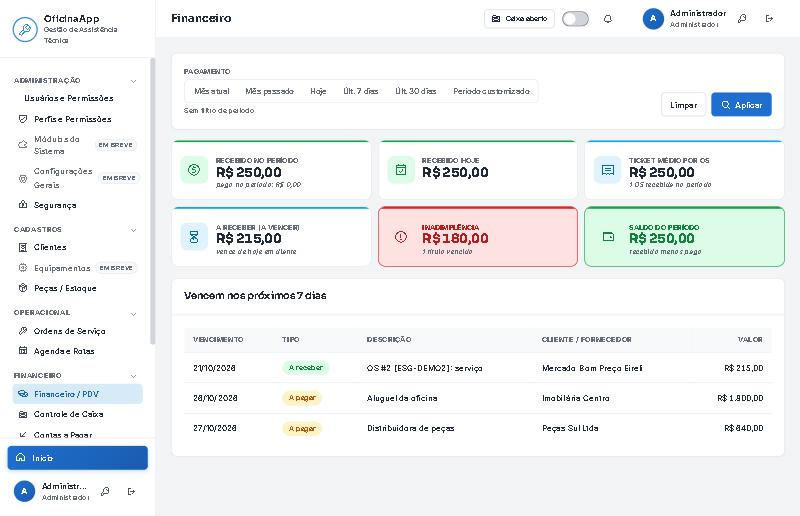
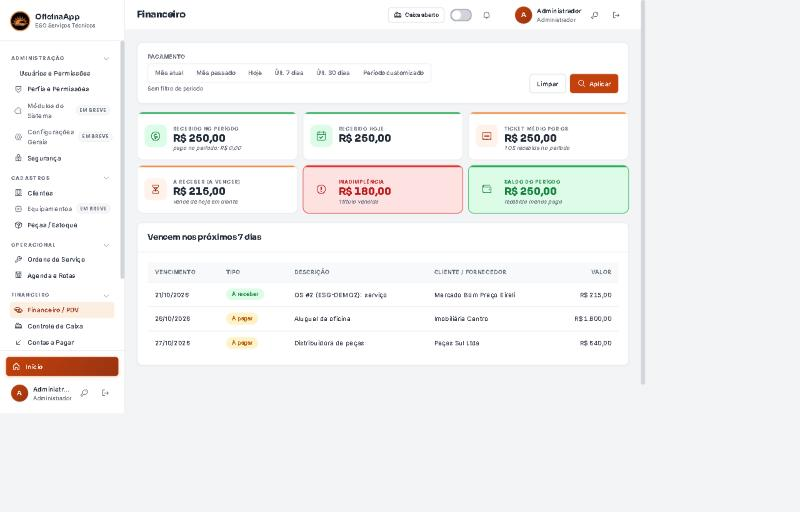
Rebrand visual para a identidade da ESG (laranja + preto)
- tokens.css: paleta accent azul -> laranja da ESG (#F28333), com
  variantes WCAG-seguras para botoes (#C2410C) e tema escuro
- icones PWA e favicon gerados a partir do logo real (letterbox em
  preto), substituindo o favicon.svg; gerar_icones.py reescrito
- login/trocar-senha exibem o logo completo; sidebar com logo + nome
- base/erro/offline/recibo/comprovante: favicon .svg -> .png
- pwa.py: cor do tema e versao do service worker
- chip de estoque normal: azul -> cinza neutro (sem azul na UI)
- capturas de tela refeitas na nova cor (docs/screenshots + site/img)
- landing page (site/index.html) rebrandizada para laranja + preto

diff --git a/static/css/tokens.css b/static/css/tokens.css
@@ -1,24 +1,24 @@
 /* tokens.css - Variáveis de cor, fonte, espaçamento, sombra, raio */
-/* Cor da marca: #3387E9 | Token: --accent */
+/* Cor da marca ESG (laranja do logo): #F28333 | Token: --accent */
 
 :root {
   /* Light theme (default) */
-  --accent: #3387E9;
-  --accent-suave: #D6EAF8;
-  --accent-escura: #1E6FD0;
-  --accent-hover: #2979D0;
-  --accent-soft: rgba(51, 135, 233, 0.1);
-  --accent-sombra: rgba(51, 135, 233, 0.3);
+  --accent: #F28333;
+  --accent-suave: #FDEEE2;
+  --accent-escura: #C2410C;
+  --accent-hover: #DD7324;
+  --accent-soft: rgba(242, 131, 51, 0.1);
+  --accent-sombra: rgba(242, 131, 51, 0.3);
   --accent-texto: #FFFFFF;
   /* Texto sobre superfícies --accent-suave/--accent-soft (nav ativa, badge,
-     ícone KPI): #1E6FD0 dava 4,01:1 na nav ativa — um passo mais escuro passa */
-  --accent-texto-escuro: #1A62C0;
+     ícone KPI): laranja escuro #9A3412 dá contraste forte na superfície clara */
+  --accent-texto-escuro: #9A3412;
 
-  /* Superfície sólida de botão/gradiente (4,5:1 com --accent-texto).
-     Branco sobre o azul da marca #3387E9 dá 3,6:1 — decisão de 14/10/2026:
-     botões no azul profundo, marca #3387E9 continua em ícones, bordas e nav */
-  --accent-solido: #1E6FD0;       /* 5,0:1 com branco */
-  --accent-solido-fim: #1A5CB0;   /* 2ª parada do gradiente e hover: 6,6:1 */
+  /* Superfície sólida de botão/gradiente (4,5:1+ com --accent-texto).
+     Branco sobre o laranja da marca #F28333 dá só 2,6:1, então o BOTÃO usa o
+     laranja profundo; a marca #F28333 segue em ícones, bordas e nav */
+  --accent-solido: #C2410C;       /* 5,2:1 com branco */
+  --accent-solido-fim: #9A3412;   /* 2ª parada do gradiente e hover: 7,3:1 */
 
   --verde: #16a34a;
   --verde-suave: #DCFCE7;
@@ -88,21 +88,21 @@
 
 [data-theme="dark"] {
   /* Dark theme */
-  --accent: #4A9EFF;
-  --accent-suave: #1A3A5C;
-  --accent-escura: #1E6FD0;
-  --accent-hover: #6BB3FF;
-  --accent-soft: rgba(74, 158, 255, 0.15);
-  --accent-sombra: rgba(74, 158, 255, 0.4);
-  --accent-texto: #0D1B2A;
+  --accent: #F9A05A;
+  --accent-suave: #3D2212;
+  --accent-escura: #C2410C;
+  --accent-hover: #FBBF88;
+  --accent-soft: rgba(249, 160, 90, 0.15);
+  --accent-sombra: rgba(249, 160, 90, 0.4);
+  --accent-texto: #3A1C09;
   --accent-texto-claro: #FFFFFF;
-  /* Texto sobre --accent-soft (badge, ícone KPI, nav ativa): precisa clarear
-     no dark — o valor claro (#1E6FD0) dava 2,4:1 sobre a superfície escura */
-  --accent-texto-escuro: #93C5FD;
+  /* Texto sobre --accent-soft (badge, ícone KPI, nav ativa): clareia no dark
+     (laranja claro #FBBF88) pra passar na superfície escura */
+  --accent-texto-escuro: #FBBF88;
 
   /* No escuro o accent clareia, então aqui o botão é claro com texto marinho */
-  --accent-solido: #4A9EFF;       /* 6,3:1 com #0D1B2A */
-  --accent-solido-fim: #6BB3FF;   /* 7,9:1 */
+  --accent-solido: #F9A05A;       /* 7,6:1 com #3A1C09 */
+  --accent-solido-fim: #FBBF88;   /* 9,0:1 */
 
   --verde: #22C55E;
   --verde-suave: #14532D;

diff --git a/site/index.html b/site/index.html
@@ -9,13 +9,13 @@
 <meta property="og:description" content="Do orçamento à entrega assinada pelo cliente, num sistema só.">
 <meta property="og:type" content="website">
 <meta property="og:image" content="img/inicio.jpg">
-<link rel="icon" type="image/svg+xml" href="favicon.svg">
+<link rel="icon" type="image/png" href="favicon.png">
 <link rel="preconnect" href="https://fonts.googleapis.com">
 <link rel="preconnect" href="https://fonts.gstatic.com" crossorigin>
 <link href="https://fonts.googleapis.com/css2?family=Inter:wght@400;500;600&family=Sora:wght@600;700;800&display=swap" rel="stylesheet">
 <style>
   :root{
-    --accent:#3387E9; --accent-esc:#1E6FD0; --tinta:#0f172a; --tinta2:#475569;
+    --accent:#F28333; --accent-esc:#C2410C; --tinta:#0f172a; --tinta2:#475569;
     --fraco:#94a3b8; --borda:#e2e8f0; --fundo:#f6f8fb; --branco:#fff;
     --verde:#16a34a; --card-sombra:0 1px 2px rgba(15,23,42,.06),0 8px 24px rgba(15,23,42,.06);
   }
@@ -40,8 +40,8 @@
 
   /* hero */
   .hero{padding:72px 0 48px;text-align:center;background:
-    radial-gradient(900px 380px at 50% -40%, rgba(51,135,233,.14), transparent 70%)}
-  .selo{display:inline-block;font-size:13px;font-weight:600;color:var(--accent-esc);background:rgba(51,135,233,.1);padding:6px 14px;border-radius:999px;margin-bottom:20px}
+    radial-gradient(900px 380px at 50% -40%, rgba(242,131,51,.16), transparent 70%)}
+  .selo{display:inline-block;font-size:13px;font-weight:600;color:var(--accent-esc);background:rgba(242,131,51,.12);padding:6px 14px;border-radius:999px;margin-bottom:20px}
   .hero h1{font-size:clamp(32px,5vw,52px);font-weight:800}
   .hero p{max-width:640px;margin:18px auto 0;font-size:clamp(16px,2.3vw,19px);color:var(--tinta2)}
   .hero-cta{display:flex;gap:12px;justify-content:center;flex-wrap:wrap;margin-top:28px}
@@ -58,7 +58,7 @@
   @media(max-width:860px){.grid{grid-template-columns:repeat(2,1fr)}}
   @media(max-width:560px){.grid{grid-template-columns:1fr}}
   .card{background:var(--branco);border:1px solid var(--borda);border-radius:14px;padding:22px;box-shadow:var(--card-sombra)}
-  .card .ic{width:44px;height:44px;border-radius:11px;background:rgba(51,135,233,.1);display:grid;place-items:center;font-size:22px;margin-bottom:14px}
+  .card .ic{width:44px;height:44px;border-radius:11px;background:rgba(242,131,51,.12);display:grid;place-items:center;font-size:22px;margin-bottom:14px}
   .card h3{font-size:18px;font-weight:600}
   .card p{color:var(--tinta2);font-size:15px;margin:8px 0 0}
 
@@ -105,7 +105,7 @@
 
 <header>
   <div class="wrap nav">
-    <div class="marca"><img src="favicon.svg" alt=""> OficinaApp</div>
+    <div class="marca"><img src="favicon.png" alt=""> OficinaApp</div>
     <div class="nav-links">
       <a class="btn btn-ghost" href="https://github.com/opusvix/oficinaapp" target="_blank" rel="noopener">GitHub</a>
       <a class="btn btn-ghost" href="https://gitlab.com/opusvix/oficinaapp" target="_blank" rel="noopener">GitLab</a>

diff --git a/static/css/components.css b/static/css/components.css
@@ -547,13 +547,13 @@ table.matriz tbody tr.matriz-grupo i { margin-right: 6px; }
 }
 .mg-kpi::before { content: ''; position: absolute; top: 0; left: 0; right: 0; height: 3px; background: var(--borda); }
 .mg-kpi.ac-fat::before { background: var(--verde); }
-.mg-kpi.ac-info::before { background: var(--azul-info); }
+.mg-kpi.ac-info::before { background: var(--accent); }
 .mg-kpi.ac-fin::before { background: var(--ambar); }
 .mg-kpi.pos::before { background: var(--verde); }
 .mg-kpi.neg::before { background: var(--vermelho); }
 .mg-kpi .ico { width: 44px; height: 44px; border-radius: 11px; display: grid; place-items: center; font-size: 22px; flex-shrink: 0; }
 .mg-kpi.ac-fat .ico, .mg-kpi.pos .ico { background: var(--verde-suave); color: var(--verde-escuro); }
-.mg-kpi.ac-info .ico { background: var(--azul-suave); color: var(--azul-escuro); }
+.mg-kpi.ac-info .ico { background: var(--accent-soft); color: var(--accent-texto-escuro); }
 .mg-kpi.ac-fin .ico { background: var(--ambar-suave); color: var(--ambar-escuro); }
 .mg-kpi.neg .ico { background: var(--vermelho-suave); color: var(--vermelho-escuro); }
 .mg-kpi .corpo { min-width: 0; flex: 1; display: flex; flex-direction: column; }
@@ -690,3 +690,7 @@ table.tabela tfoot td { padding: 12px 14px; font-weight: 700; border-top: 2px so
 .imp-atu { border-color: var(--azul-info); color: var(--azul-escuro); }
 .imp-erro { border-color: var(--vermelho); color: var(--vermelho-escuro); }
 .imp-tot { color: var(--texto-secundario); margin-left: auto; }
+
+/* Login: logo real da ESG num cartão preto (combina com o fundo do logo) */
+.auth-logo { background: #08080a; border-radius: 12px; padding: 16px 18px; margin-bottom: 22px; }
+.auth-logo img { display: block; width: 100%; max-width: 240px; height: auto; margin: 0 auto; }

diff --git a/templates/base.html b/templates/base.html
@@ -4,7 +4,7 @@
     <meta charset="utf-8">
     <meta name="viewport" content="width=device-width, initial-scale=1">
     <meta name="csrf-token" content="{{ csrf_token() }}">
-    <link rel="icon" type="image/svg+xml" href="{{ url_for('static', filename='favicon.svg') }}">
+    <link rel="icon" type="image/png" href="{{ url_for('static', filename='favicon.png') }}">
     {# PWA (Padrao_PWA_Notificacoes): manifest dinâmico + ícone do iPhone + cor da barra #}
     <link rel="manifest" href="/manifest.webmanifest">
     <link rel="apple-touch-icon" href="{{ url_for('static', filename='icons/apple-touch-icon.png') }}">
@@ -41,11 +41,11 @@
         <!-- Marca -->
         <div class="sidebar-marca">
             <div class="logo-quadro">
-                <i class="ph ph-wrench"></i>
+                <img src="{{ url_for('static', filename='favicon.png') }}" alt="ESG Serviços Técnicos">
             </div>
             <div>
                 <div class="marca-nome">OficinaApp</div>
-                <div class="marca-sub">Gestão de Assistência Técnica</div>
+                <div class="marca-sub">ESG Serviços Técnicos</div>
             </div>
         </div>
 

diff --git a/templates/trocar_senha.html b/templates/trocar_senha.html
@@ -4,7 +4,7 @@
     <meta charset="utf-8">
     <meta name="viewport" content="width=device-width, initial-scale=1">
     <meta name="csrf-token" content="{{ csrf_token() }}">
-    <link rel="icon" type="image/svg+xml" href="{{ url_for('static', filename='favicon.svg') }}">
+    <link rel="icon" type="image/png" href="{{ url_for('static', filename='favicon.png') }}">
     <title>Trocar senha · OficinaApp</title>
     <link rel="stylesheet" href="{{ url_for('static', filename='css/tokens.css') }}">
     <link rel="stylesheet" href="{{ url_for('static', filename='css/base.css') }}">
@@ -15,12 +15,8 @@
 <body>
 <main class="tela-auth">
     <div class="card card-auth">
-        <div class="auth-marca">
-            <div class="logo-quadro"><i class="ph ph-wrench"></i></div>
-            <div>
-                <div class="marca-nome">OficinaApp</div>
-                <div class="marca-sub">Gestão de Assistência Técnica</div>
-            </div>
+        <div class="auth-logo">
+            <img src="{{ url_for('static', filename='img/logo-esg.jpeg') }}" alt="ESG Serviços Técnicos">
         </div>
 
         <h1 class="auth-titulo">Trocar a senha</h1>

diff --git a/templates/login.html b/templates/login.html
@@ -4,7 +4,7 @@
     <meta charset="utf-8">
     <meta name="viewport" content="width=device-width, initial-scale=1">
     <meta name="csrf-token" content="{{ csrf_token() }}">
-    <link rel="icon" type="image/svg+xml" href="{{ url_for('static', filename='favicon.svg') }}">
+    <link rel="icon" type="image/png" href="{{ url_for('static', filename='favicon.png') }}">
     <title>Entrar · OficinaApp</title>
     <link rel="stylesheet" href="{{ url_for('static', filename='css/tokens.css') }}">
     <link rel="stylesheet" href="{{ url_for('static', filename='css/base.css') }}">
@@ -15,12 +15,8 @@
 <body>
 <main class="tela-auth">
     <div class="card card-auth">
-        <div class="auth-marca">
-            <div class="logo-quadro"><i class="ph ph-wrench"></i></div>
-            <div>
-                <div class="marca-nome">OficinaApp</div>
-                <div class="marca-sub">Gestão de Assistência Técnica</div>
-            </div>
+        <div class="auth-logo">
+            <img src="{{ url_for('static', filename='img/logo-esg.jpeg') }}" alt="ESG Serviços Técnicos">
         </div>
 
         <h1 class="auth-titulo">Entrar</h1>

diff --git a/templates/financeiro/recibo.html b/templates/financeiro/recibo.html
@@ -4,7 +4,7 @@
   <meta charset="utf-8">
   <meta name="viewport" content="width=device-width, initial-scale=1">
   <title>Recibo #{{ t.id }} · {{ empresa }}</title>
-  <link rel="icon" type="image/svg+xml" href="{{ url_for('static', filename='favicon.svg') }}">
+  <link rel="icon" type="image/png" href="{{ url_for('static', filename='favicon.png') }}">
   <link rel="stylesheet" href="{{ url_for('static', filename='css/tokens.css') }}">
   <link rel="stylesheet" href="{{ url_for('static', filename='fonts/fonts.css') }}">
   <link rel="stylesheet" href="{{ url_for('static', filename='fonts/phosphor/style.css') }}">

diff --git a/templates/os/comprovante.html b/templates/os/comprovante.html
@@ -4,7 +4,7 @@
   <meta charset="utf-8">
   <meta name="viewport" content="width=device-width, initial-scale=1">
   <title>OS #{{ os.id }} · Comprovante</title>
-  <link rel="icon" type="image/svg+xml" href="{{ url_for('static', filename='favicon.svg') }}">
+  <link rel="icon" type="image/png" href="{{ url_for('static', filename='favicon.png') }}">
   <link rel="stylesheet" href="{{ url_for('static', filename='css/tokens.css') }}">
   <link rel="stylesheet" href="{{ url_for('static', filename='fonts/fonts.css') }}">
   <link rel="stylesheet" href="{{ url_for('static', filename='fonts/phosphor/style.css') }}">

diff --git a/templates/erro.html b/templates/erro.html
@@ -4,7 +4,7 @@
     <meta charset="utf-8">
     <meta name="viewport" content="width=device-width, initial-scale=1">
     <meta name="csrf-token" content="{{ csrf_token() }}">
-    <link rel="icon" type="image/svg+xml" href="{{ url_for('static', filename='favicon.svg') }}">
+    <link rel="icon" type="image/png" href="{{ url_for('static', filename='favicon.png') }}">
     <title>{{ codigo }} · OficinaApp</title>
     <link rel="stylesheet" href="{{ url_for('static', filename='css/tokens.css') }}">
     <link rel="stylesheet" href="{{ url_for('static', filename='css/base.css') }}">

diff --git a/static/service-worker.js b/static/service-worker.js
@@ -9,7 +9,7 @@
    Estáticos: rede primeiro (deploy novo aparece na hora), cache se estiver sem rede.
    Telas: sempre rede; sem rede, mostra /offline. */
 
-var CACHE = "oficina-v1";            // = core/pwa.py VERSAO_SW
+var CACHE = "oficina-v2";            // = core/pwa.py VERSAO_SW
 var PRECACHE = [
   "/offline",
   "/static/css/tokens.css",
@@ -23,7 +23,7 @@ var PRECACHE = [
   "/static/fonts/phosphor/Phosphor.woff2",
   "/static/js/main.js",
   "/static/js/selectbusca.js",
-  "/static/favicon.svg",
+  "/static/favicon.png",
   "/static/icons/icon-192.png"
 ];
 

diff --git a/templates/estoque/lista.html b/templates/estoque/lista.html
@@ -57,7 +57,7 @@
               <td class="col-num">{{ p.preco_custo_fmt }}</td>
               <td class="col-num">{{ p.preco_venda_fmt }}</td>
               <td class="col-num {% if p.estoque_baixo %}estoque-baixo{% endif %}">
-                <span class="badge {% if p.estoque_baixo %}badge-vermelho{% else %}badge-azul{% endif %}">
+                <span class="badge {% if p.estoque_baixo %}badge-vermelho{% else %}badge-cinza{% endif %}">
                   {{ p.estoque_atual_fmt }}
                 </span>
               </td>

diff --git a/templates/offline.html b/templates/offline.html
@@ -4,7 +4,7 @@
   <meta charset="utf-8">
   <meta name="viewport" content="width=device-width, initial-scale=1">
   <title>Sem conexão · {{ empresa }}</title>
-  <link rel="icon" type="image/svg+xml" href="/static/favicon.svg">
+  <link rel="icon" type="image/png" href="/static/favicon.png">
   <link rel="stylesheet" href="/static/css/tokens.css">
   <link rel="stylesheet" href="/static/fonts/fonts.css">
   <link rel="stylesheet" href="/static/fonts/phosphor/style.css">
